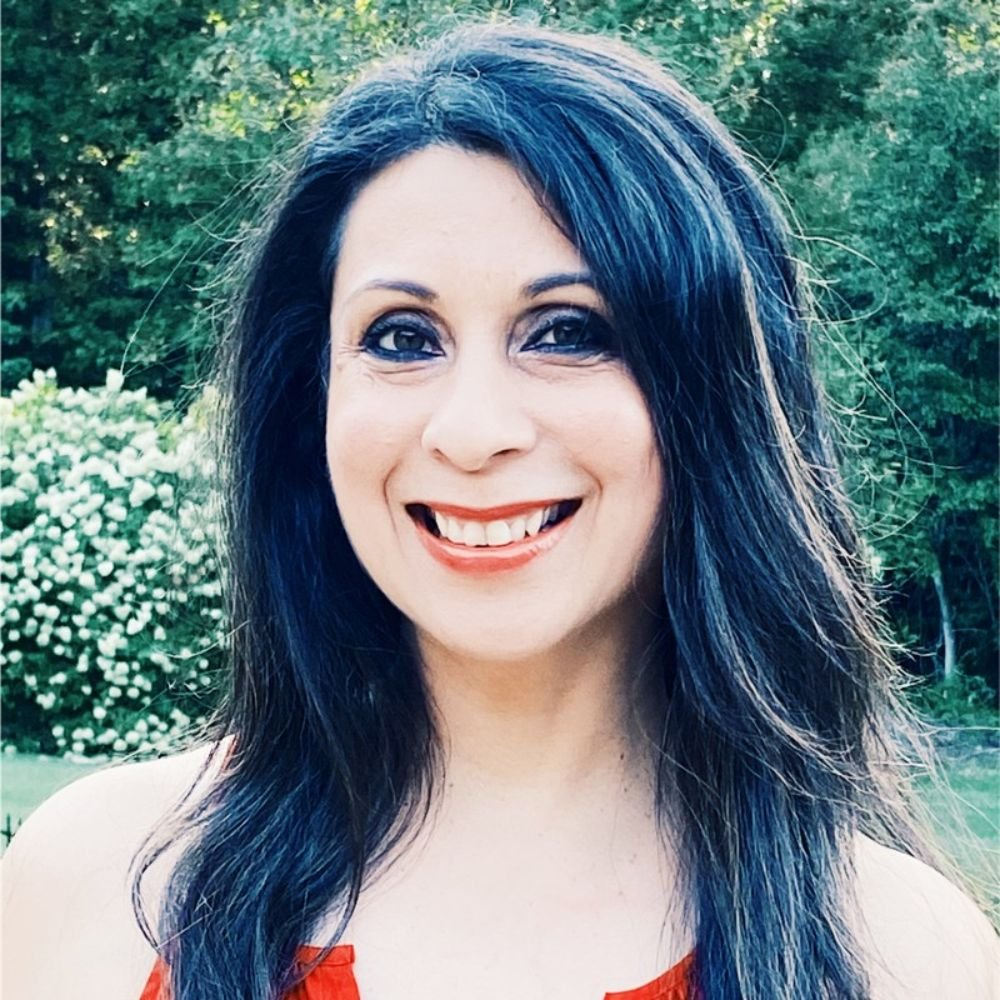
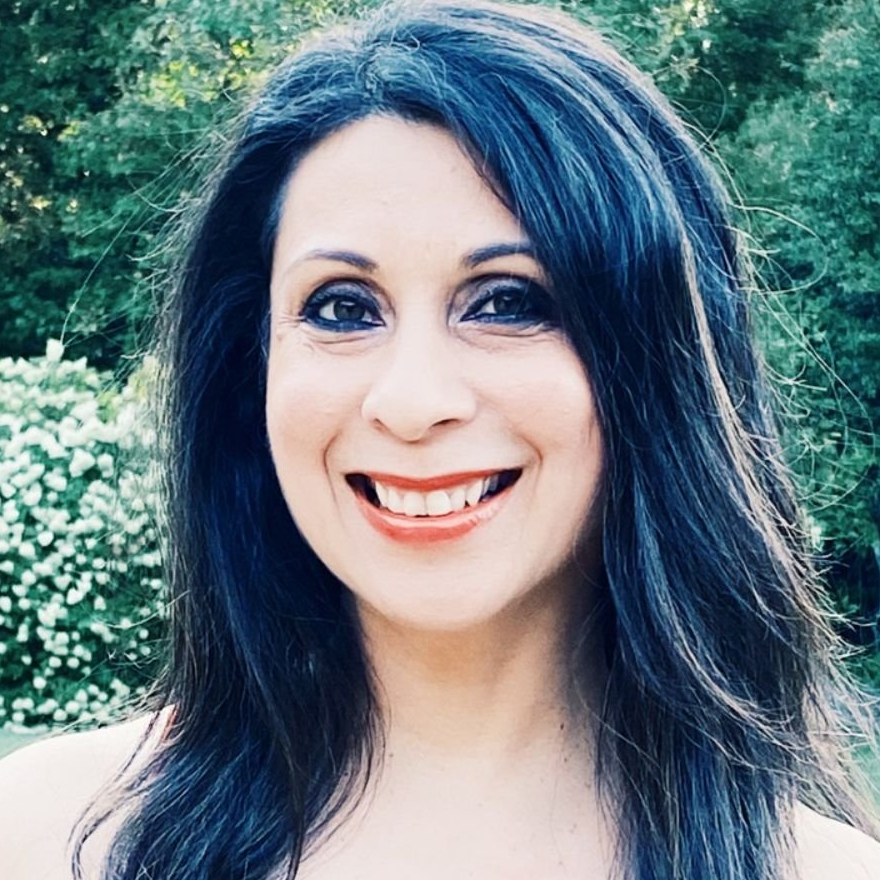
Fix Bhumi Chabbra, Pradeep Verma, and Aadhya Bhidodiya photo framing and aspect ratio

diff --git a/assets/css/main.css b/assets/css/main.css
@@ -115,7 +115,7 @@ button:focus-visible,a:focus-visible,summary:focus-visible,input:focus-visible,s
 /* page hero system */
 .page-hero{padding-top:clamp(55px,7vw,100px);padding-bottom:clamp(65px,9vw,130px)}.page-hero .display{color:var(--navy)}.page-hero .display em{color:var(--royal)}
 .about-wide-image{border-radius:28px;box-shadow:0 32px 90px rgba(7,17,61,.17)}.wide-image-type{color:#fff;text-shadow:0 12px 45px rgba(0,0,0,.35)}.image-note{background:#fff;color:var(--navy);border-radius:999px;padding:10px 14px}.purpose-grid>article{border-radius:24px;min-height:430px}.purpose-grid .tone-orange{background:#0b36e2;color:#fff}.purpose-grid .tone-lilac{background:#cbdcff}.purpose-grid .tone-mint{background:#dff7ff}.purpose-grid .tone-orange p,.purpose-grid .tone-orange .small-label{color:#dbe8ff}.purpose-grid .tone-orange .star{color:#75e3ff}.values-symbol{color:var(--royal)}
-.timeline-tabs button[aria-selected=true]{color:var(--royal)}.timeline-tabs button span{background:var(--royal)}.timeline-panel{background:linear-gradient(135deg,#dbe8ff,#eef5ff);border-radius:28px}.timeline-panel .star{color:#2c5cff}.team-roster{display:grid;grid-template-columns:repeat(auto-fill,minmax(240px,1fr));gap:28px;margin-top:40px}.team-member-card{background:#fff;border:1px solid #dbe4fb;border-radius:18px;overflow:hidden;box-shadow:0 10px 30px rgba(7,17,61,.05);transition:transform .35s ease,box-shadow .35s ease,border-color .35s ease;display:flex;flex-direction:column}.team-member-card:hover{transform:translateY(-6px);box-shadow:0 20px 45px rgba(7,17,61,.12);border-color:#a8c1f8}.team-member-photo-wrap{width:100%;aspect-ratio:4/4.5;overflow:hidden;background:#eef4ff;position:relative}.team-member-photo{width:100%;height:100%;object-fit:cover;object-position:center top;transition:transform .4s ease}.team-member-card:hover .team-member-photo{transform:scale(1.05)}.team-photo-fallback{width:100%;height:100%;display:flex;align-items:center;justify-content:center;background:linear-gradient(135deg,#0715a7 0%,#1e40af 100%);color:#fff;font-size:36px;font-weight:700}.team-member-info{padding:18px 20px;display:flex;flex-direction:column;gap:4px}.team-member-info .team-index{font-size:11px;font-weight:700;color:var(--royal,#0715a7);letter-spacing:.05em}.team-member-info h3{font-size:19px;font-weight:700;color:var(--navy,#02093c);margin:0;line-height:1.25}.team-member-info p{font-size:13px;color:var(--muted,#64748b);margin:0}.team-member{border-color:#d3def5}.team-member:hover{background:#fff}.team-index{color:#2a58e7}.industry-pills span{background:#fff;border-color:#cad8f3;box-shadow:0 8px 24px rgba(7,17,61,.05)}
+.timeline-tabs button[aria-selected=true]{color:var(--royal)}.timeline-tabs button span{background:var(--royal)}.timeline-panel{background:linear-gradient(135deg,#dbe8ff,#eef5ff);border-radius:28px}.timeline-panel .star{color:#2c5cff}.team-roster{display:grid;grid-template-columns:repeat(auto-fill,minmax(240px,1fr));gap:28px;margin-top:40px}.team-member-card{background:#fff;border:1px solid #dbe4fb;border-radius:18px;overflow:hidden;box-shadow:0 10px 30px rgba(7,17,61,.05);transition:transform .35s ease,box-shadow .35s ease,border-color .35s ease;display:flex;flex-direction:column}.team-member-card:hover{transform:translateY(-6px);box-shadow:0 20px 45px rgba(7,17,61,.12);border-color:#a8c1f8}.team-member-photo-wrap{width:100%;aspect-ratio:1/1;overflow:hidden;background:#eef4ff;position:relative}.team-member-photo{width:100%;height:100%;object-fit:cover;object-position:center center;transition:transform .4s ease}.team-member-card:hover .team-member-photo{transform:scale(1.05)}.team-photo-fallback{width:100%;height:100%;display:flex;align-items:center;justify-content:center;background:linear-gradient(135deg,#0715a7 0%,#1e40af 100%);color:#fff;font-size:36px;font-weight:700}.team-member-info{padding:18px 20px;display:flex;flex-direction:column;gap:4px}.team-member-info .team-index{font-size:11px;font-weight:700;color:var(--royal,#0715a7);letter-spacing:.05em}.team-member-info h3{font-size:19px;font-weight:700;color:var(--navy,#02093c);margin:0;line-height:1.25}.team-member-info p{font-size:13px;color:var(--muted,#64748b);margin:0}.team-member{border-color:#d3def5}.team-member:hover{background:#fff}.team-index{color:#2a58e7}.industry-pills span{background:#fff;border-color:#cad8f3;box-shadow:0 8px 24px rgba(7,17,61,.05)}
 
 /* services listing */
 .services-hero-grid{background:linear-gradient(145deg,#02093e,#061aaf 62%,#0f4ef2);color:#fff;border-radius:0 0 40px 40px;width:100%;max-width:none;padding:clamp(65px,8vw,115px) var(--gutter) clamp(80px,10vw,140px)}.services-hero-grid .display{color:#fff}.services-hero-grid .large-copy,.services-hero-grid p,.services-hero-grid .section-label span+span{color:#b7c9f2}.service-card{background:#fff;border-color:#d6e0f5;border-radius:20px;overflow:hidden;transition:transform .45s var(--ease),box-shadow .45s var(--ease),border-color .45s}.service-card:hover{transform:translateY(-8px);box-shadow:0 28px 70px rgba(7,17,61,.13);border-color:#9db8ff}.service-card h3{color:var(--navy)}.service-card:hover h3{color:var(--royal)}.service-card .service-visual{border-radius:0}.service-card .tags span{background:#eef4ff;color:#2447b1;border-color:#d6e1fb}
